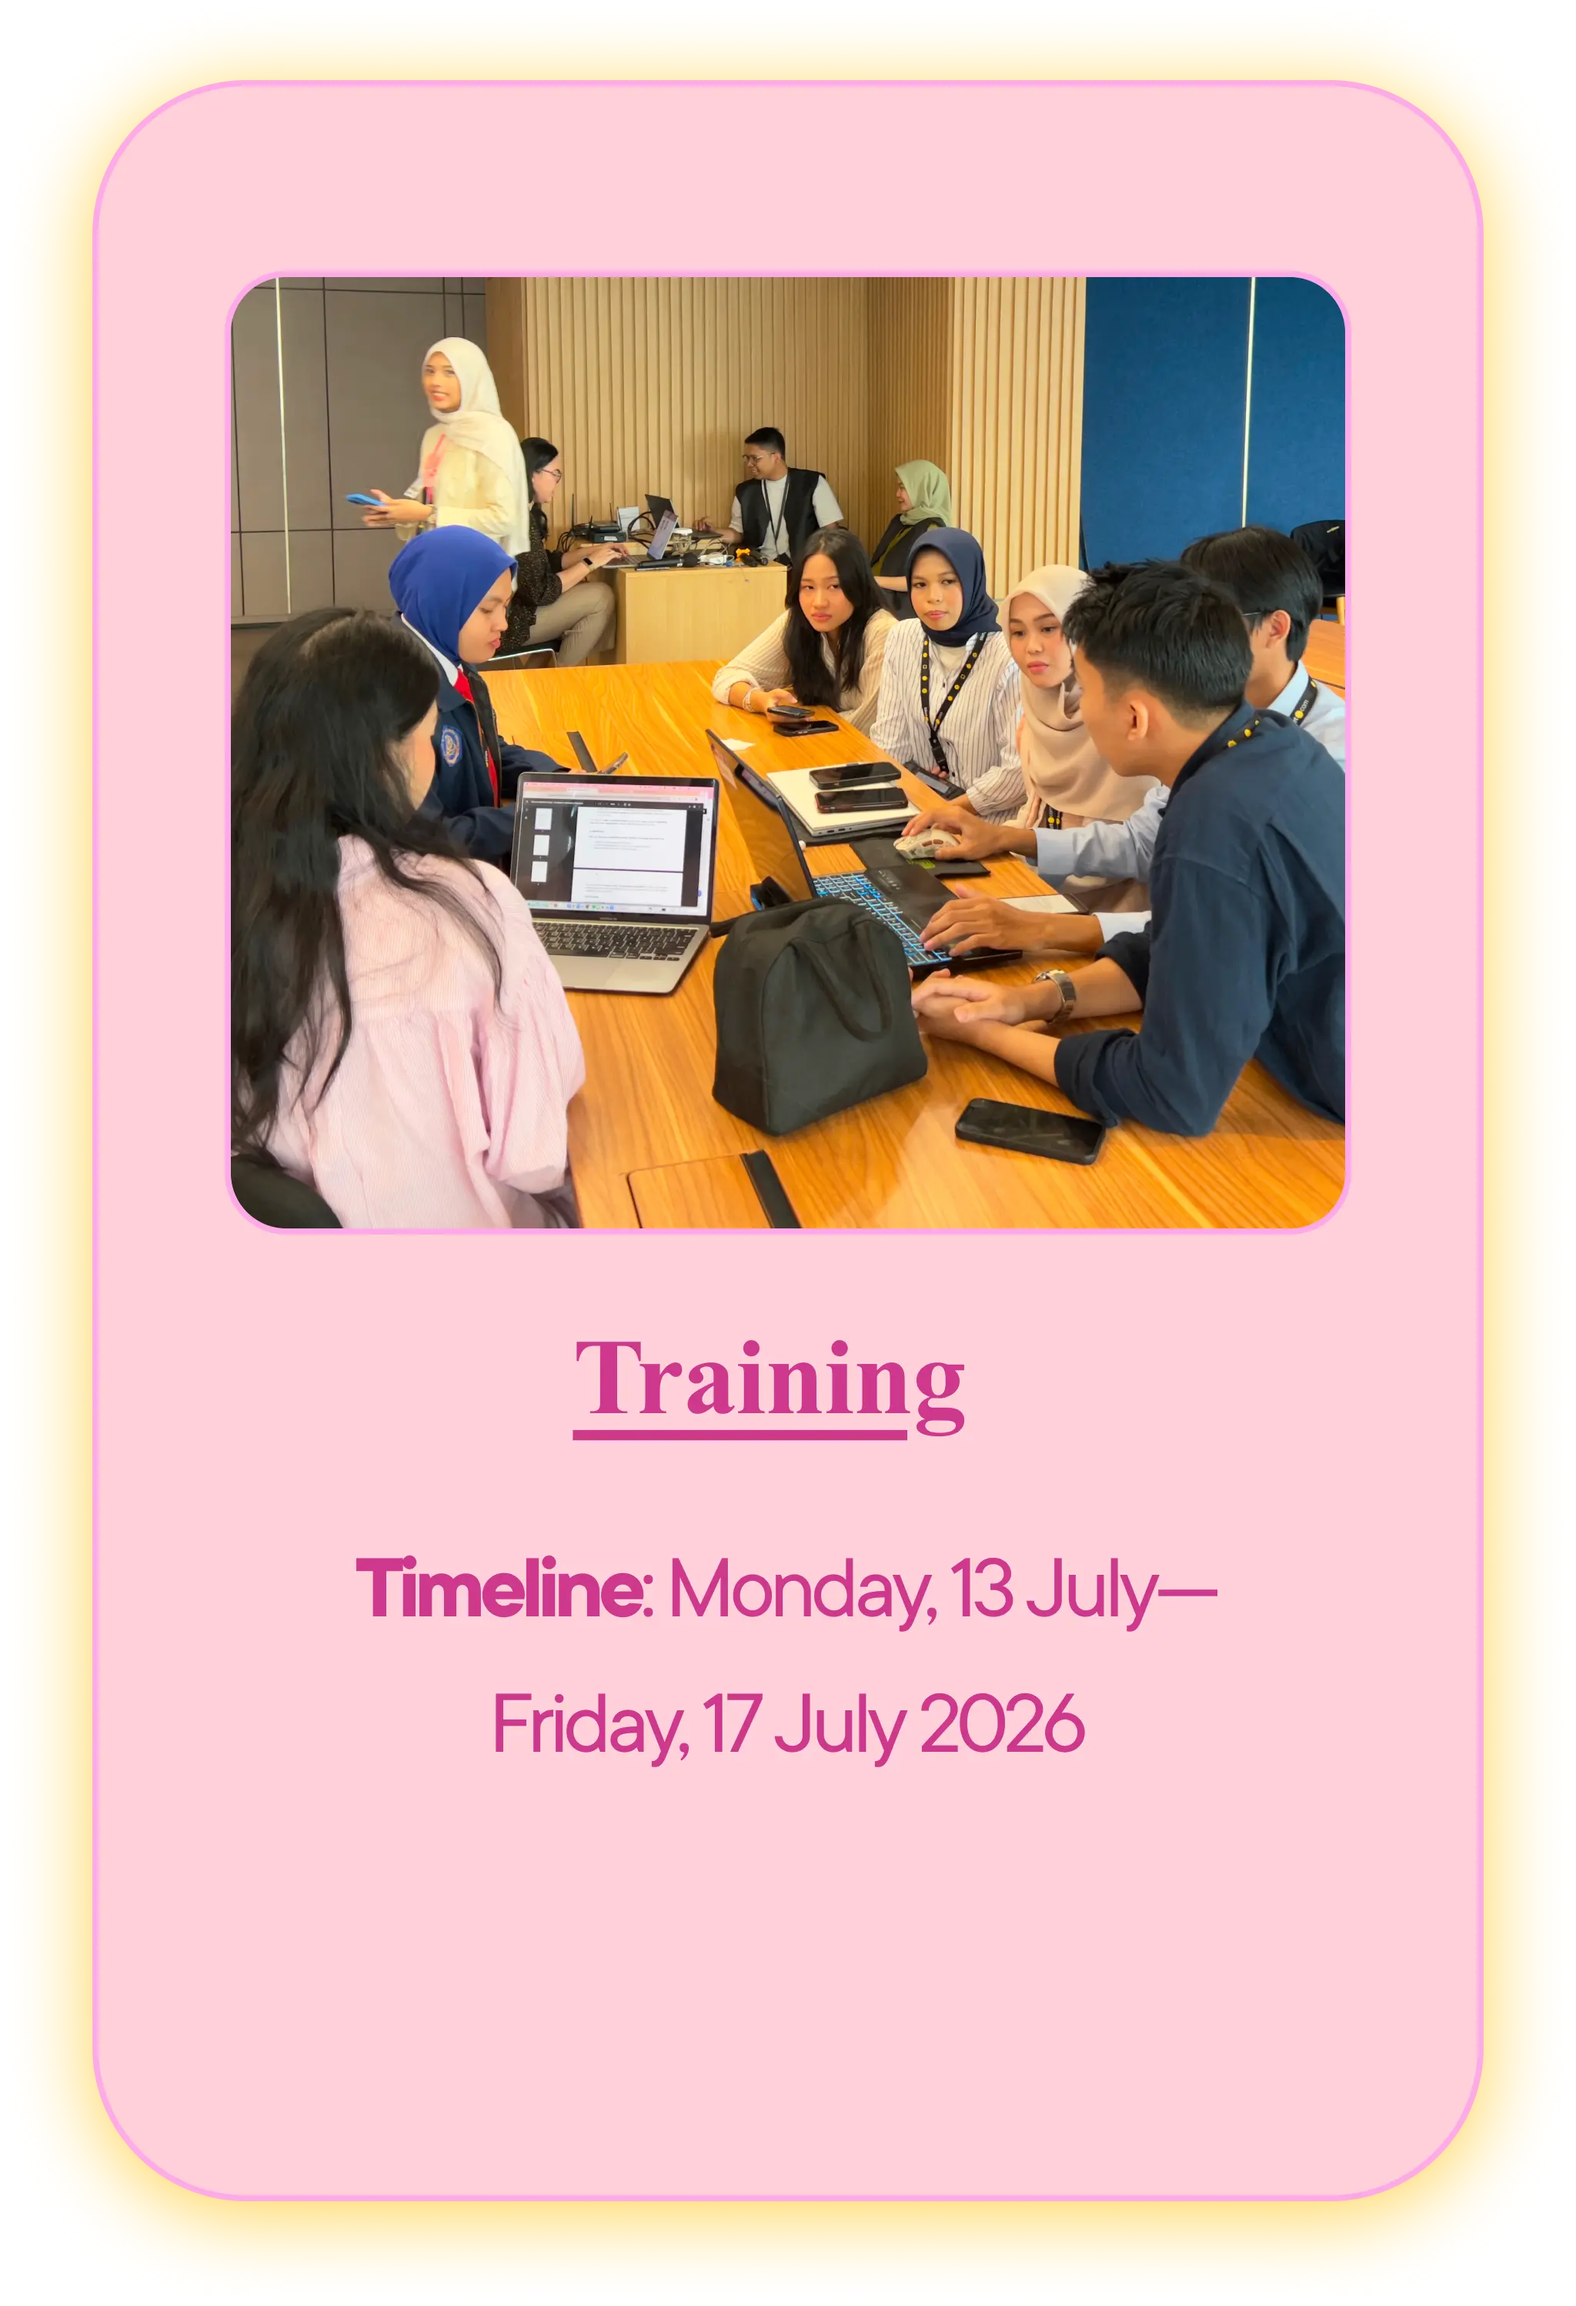
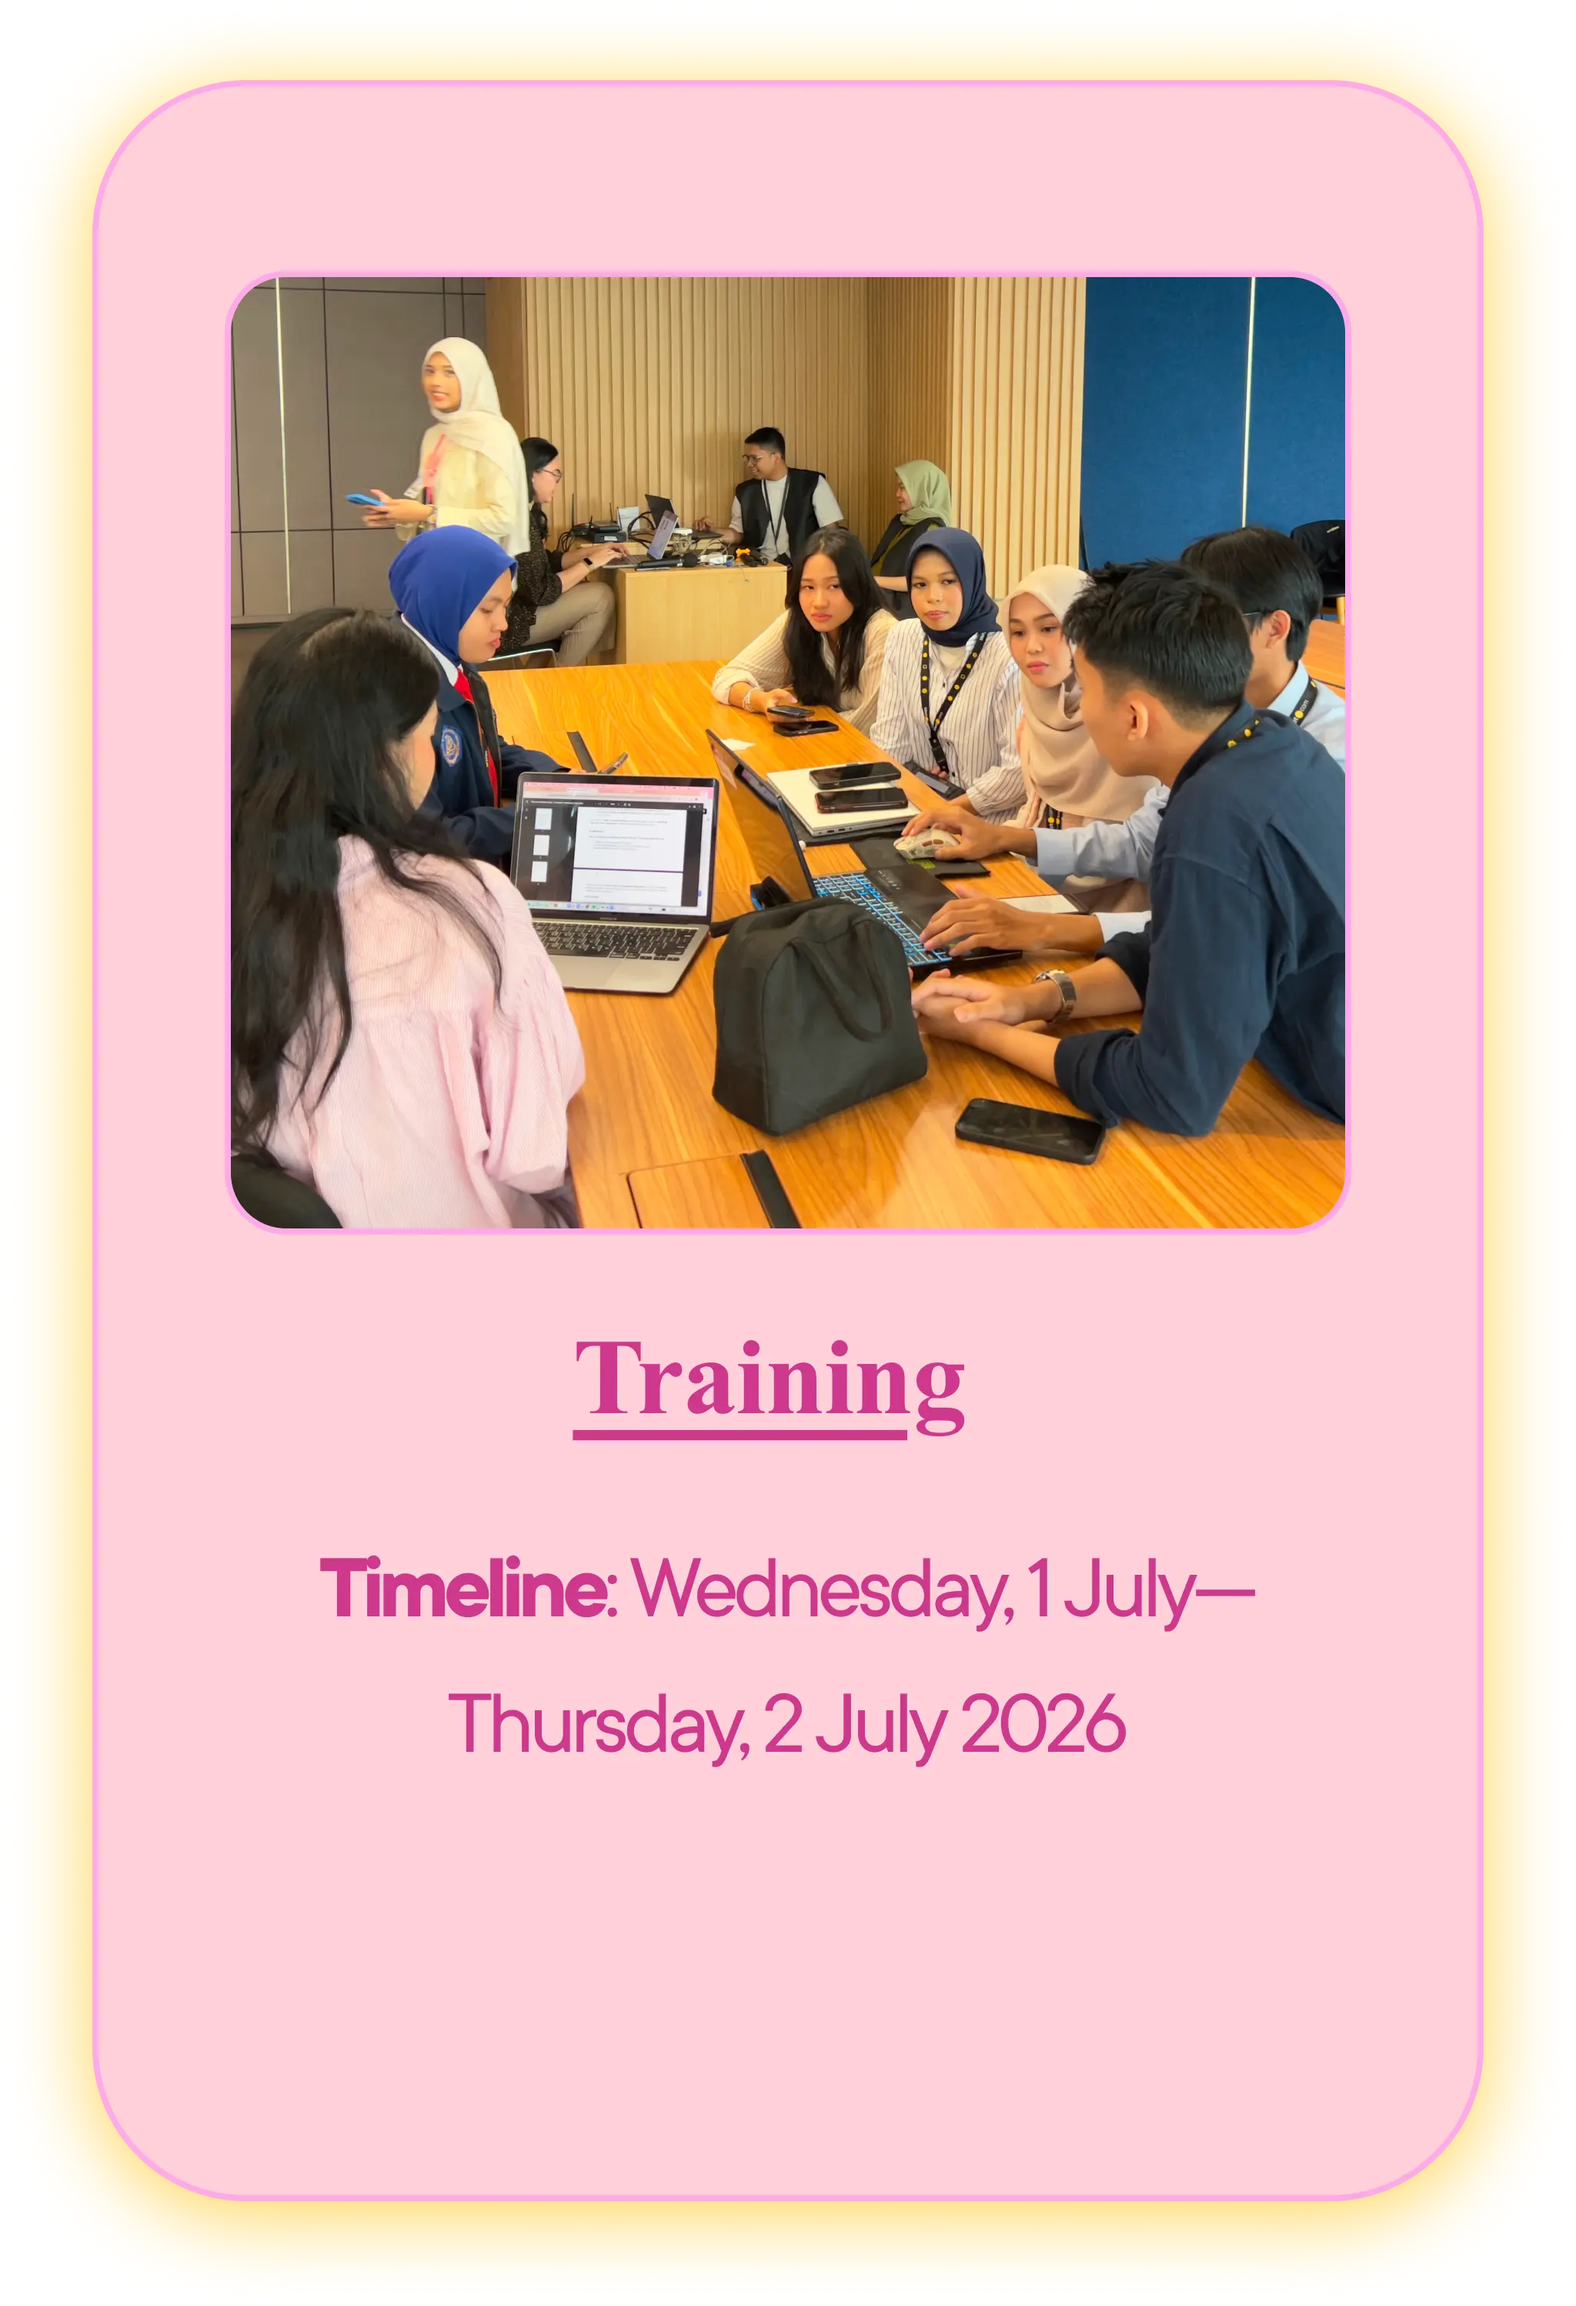
cruuud

Changed region(s): [[0.1875, 0.6519, 0.75, 0.776]]

diff --git a/src/app/(public)/wce/training/TrainingSection.tsx b/src/app/(public)/wce/training/TrainingSection.tsx
@@ -107,10 +107,10 @@ export default function TrainingSection() {
                                 onToggle={() => toggle(0)}
                                 photoSrc="/images/wce/training/Photo1.webp"
                                 logoSrc="/images/wce/training/Logo WCE.webp"
-                                companySrc="/images/wce/training/TBA.webp"
+                                companySrc="/images/wce/training/Unilever.webp"
                                 title="External Training"
-                                timeline="TBA"
-                                place="TBA"
+                                timeline="Wednesday, 1 July–Thursday, 2 July 2026"
+                                place="Hybrid"
                                 shortDesc="External Training is an exclusive event held under Weekend Career Expo 2026, aimed to provide participants with direct exposure to professional work environments and valuable insights into the world of work."
                                 fullDesc={[
                                     "The upcoming External Training will be conducted in collaboration with various companies. This event includes company presentations, interactive training sessions led by industry professionals, and hands-on problem-solving activities based on real workplace scenarios.",

diff --git a/src/app/(public)/wce/grand-seminar/EventsSection.tsx b/src/app/(public)/wce/grand-seminar/EventsSection.tsx
@@ -26,9 +26,7 @@ export default function EventsSectionGS() {
                         lineHeight: 1.8,
                     }}>
                         {"The event will be held on "}
-                        <span style={{ fontWeight: 700 }}>{"Saturday, 25 July, 2026,"}</span>
-                        {" from "}
-                        <span style={{ fontWeight: 700 }}>{"08.00 to 17:00."}</span>
+                        <span style={{ fontWeight: 700 }}>{"Saturday, 25 July, 2026."}</span>
                         {" It will feature a talk show with inspiring women leaders, along with presentations from participating companies."}
                     </p>
                     <a
